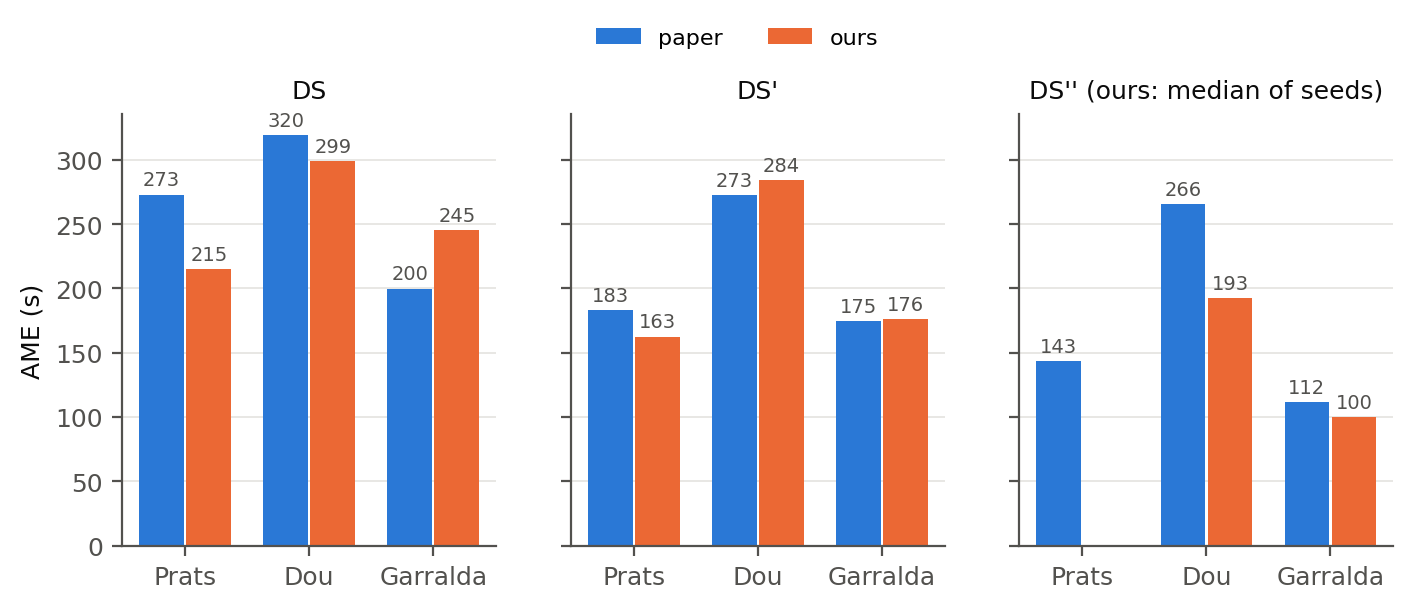
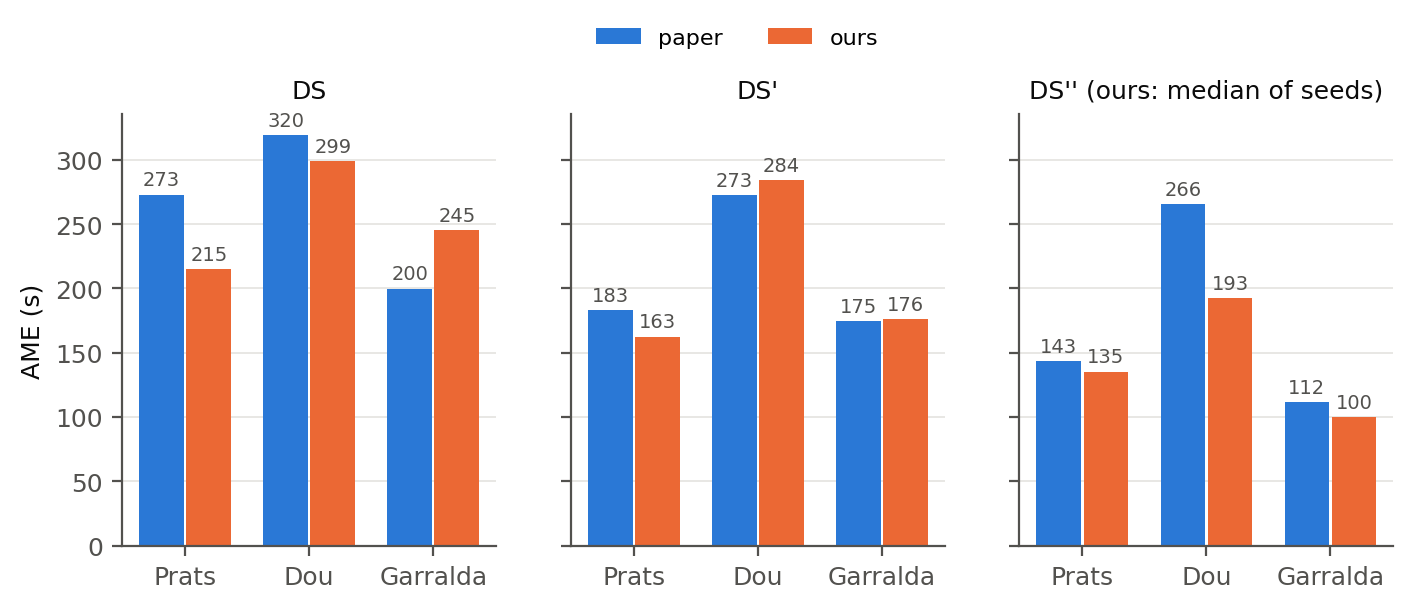
DS'' baselines and results summary

Changed region(s): [[0.7473, 0.5616, 0.8096, 0.9048]]

diff --git a/docs/results.md b/docs/results.md
@@ -1,0 +1,135 @@
+# Results
+
+All numbers come from the files under `results/`. "Paper" means FGCS 2025 (or JPDC 2024 where said);
+"ours" is this repository. Models with randomness were run with several seeds: the mean is given, and
+for DS'' also the median because a few seeds blow up (I-18). Times are in seconds.
+
+## 1. Data and featuriser
+
+- 215 of the paper's 216 runs are in the published logs (I-01): 1,251,335 tasks, 4.09 GB.
+- The PySpark featuriser and the plain Python one agree to 3.5e-10 on all 21,500 descriptor values, with
+  identical task counts and input sizes (`results/reproduced/featuriser_crosscheck.json`).
+- Against the descriptor paper (JPDC 2024, `results/reproduced/jpdc_validation/`):
+  - Table 4 (clustering quality, 12 configurations): mean absolute difference 0.032 in silhouette, 0.038
+    in F-measure, 0.030 in NMI. Degree 3 is the worst option in both. The paper's best is Cusum with
+    degree 2 (NMI 0.902); ours is Cusum with degree 1 (0.913), with degree 2 close behind (0.907).
+  - Table 5 (mean distance per workload): median absolute difference 0.14. Dataset diameter 28.19 against
+    27.55.
+  - Table 6: the Garralda descriptor beats the Prats descriptor on F-measure and NMI in all 8
+    size/algorithm cells, as in the paper.
+- Scaling of the PySpark featuriser on the Mac VM (4.09 GB, 9 jobs, median of 2 runs,
+  `results/reproduced/scaling/summary.csv`):
+
+  | Cores | Time (s) | Speed-up | MB/s |
+  |---|---|---|---|
+  | 1 | 206 | 1.00 | 19.8 |
+  | 2 | 154 | 1.34 | 26.6 |
+  | 4 | 141 | 1.47 | 29.1 |
+
+  Every run reproduces the reference descriptors. Each of the 9 jobs pays a fixed start-up cost (JVM,
+  Spark session), which limits the speed-up at this data size.
+
+## 2. Check of the model code (FGCS 2026 anchor)
+
+The authors' later offline experiment (800 runs with their own descriptors), run unchanged, gives
+exactly the published file to 3 decimals: MAE 163.045, RMSE 517.132, P95 903.808, max 4431.059,
+Kendall tau 0.694, precision@10 0.805 (`results/reproduced/fgcs2026_anchor/`). So the model code and my
+environment are not where the differences below come from.
+
+## 3. FGCS 2025
+
+AME = mean of the LOOCV and LOGOCV HME (lower is better). DS: Garralda model deterministic, baselines 3
+seeds. DS' and DS'': Garralda model 10 seeds, baselines 1 seed. `results/comparison/fgcs2025_vs_ours.csv`
+has every metric, with min, max and sd over seeds.
+
+**DS (Table 6)**
+
+| Model | LOOCV MAE paper / ours | LOGOCV MAE paper / ours | AME paper / ours |
+|---|---|---|---|
+| Prats | 136.4 / 107.1 | 293.6 / 223.5 | 273.0 / 215.3 |
+| Dou | 229.0 / 206.0 | 234.5 / 227.5 | 319.5 / 299.0 |
+| Garralda | 88.5 / 117.0 | 225.4 / 242.5 | 199.9 / 245.3 |
+
+**DS' (Table 8)**
+
+| Model | LOOCV MAE paper / ours | LOGOCV MAE paper / ours | AME paper / ours |
+|---|---|---|---|
+| Prats | 44.1 / 37.2 | 254.8 / 226.9 | 183.4 / 162.5 |
+| Dou | 159.9 / 157.6 | 241.4 / 260.5 | 272.8 / 284.1 |
+| Garralda | 52.7 / 44.5 | 219.9 / 233.0 | 174.8 / 176.1 |
+
+**DS'' (Table 10)**
+
+| Model | LOOCV MAE paper / ours | LOGOCV MAE paper / ours | AME paper / ours |
+|---|---|---|---|
+| Prats | 61.1 / 69.6 | 160.6 / 135.0 | 143.5 / 135.4 |
+| Dou | 168.8 / 94.2 | 199.8 / 188.6 | 265.7 / 192.8 |
+| Garralda (median of 10) | 59.8 / 44.7 | 108.6 / 108.4 | 111.6 / 100.1 |
+
+Garralda on DS'': the mean over the 10 seeds is dominated by the 4 seeds where LOGOCV blows up (mean
+LOGOCV MAE 154,358). The other 6 seeds and the median sit right on the paper's numbers.
+
+**Base learner ablation (Table 5, DS, 3 seeds for the random learners)**
+
+| Learner | LOOCV MAE paper / ours | LOGOCV MAE paper / ours |
+|---|---|---|
+| Random forest | 115.3 / 109.5 | 257.8 / 270.0 |
+| AdaBoost | 123.3 / 114.8 | 293.5 / 273.2 |
+| Gradient boosting | 115.6 / 106.6 | 269.6 / 264.7 |
+| NNLS (the paper's choice) | 88.5 / 117.0 | 225.4 / 242.5 |
+
+NNLS has the lowest LOGOCV error in both, but our LOOCV error is the highest of the four: one svm run
+(11,469 s predicted for 4,819 s) dominates it.
+
+**Headline claim.** The paper says its model lowers AME by 18% against Prats and 45% against Dou (31%
+overall). Recomputed from its own Table 12 that is 17.9% and 43.8%. Ours, using the median over seeds
+(needed for DS''): 34.7% against Dou (17.9% on DS, 38.2% on DS', 48.1% on DS'') but only 1.3% against
+Prats (-14.0% on DS, -8.1% on DS', +26.0% on DS''). The model clearly beats Dou, as in the paper, but
+not Prats: the Prats baseline does much better in our runs than in the paper (AME 215 against 273 on
+DS). Its LOGOCV branch in the published code can't run (I-06), so the paper's Prats numbers came from
+code we don't have.
+
+**Sensitivity (DS, AME)**
+
+- lambda (code convention, I-11): 275.7 at 0, 245.3 at 0.5 (default), 193.2 at 1.0. With lambda near 1 our
+  AME drops below the paper's 199.9.
+- Upper bound of k: 204.6 at 6, 245.3 at 18 (default), 285.6 at 30.
+- Descriptor variants: log order 275.0, no Cusum 190.0, Cusum with degree 1 182.1, Cusum with degree 3
+  293.0 (default 245.3). The simpler descriptors do better on DS.
+
+**Same code on two CPU types (I-19).** On DS the Garralda model and Dou give the same numbers on the Mac
+(ARM64) and the cloud VM (x86-64) at the precision reported here. DS' and DS'' differ in the second or
+third significant digit, and Prats on DS has AME 215.2 on ARM64 and 220.0 on x86-64.
+
+## 4. Re-runs on my own cluster
+
+69 runs of 8 HiBench workloads (`docs/cluster.md`), featurised with the same code and compared with the
+215 runs of 2022 (`results/reproduced/cluster_rerun/`).
+
+| | Garralda descriptor | Prats descriptor |
+|---|---|---|
+| Re-runs whose nearest 2022 run is the same workload | 66 / 69 (95.7%) | 63 / 69 (91.3%) |
+| ... among the 3 nearest | 97.1% | 92.8% |
+| Same check inside the 2022 runs (leave-one-out, same 8 workloads) | 100% | 83.3% |
+
+The Garralda descriptor misses 2 bayes runs (nearest: gbt and pca) and 1 sleep run (nearest: scan).
+The Prats descriptor mistakes wordcount for pagerank 6 times.
+
+Distances in the scaled Garralda space (medians): a re-run is 1.38 from its 2022 twin (same workload,
+size and setting), about the same as two 2022 runs of one workload under different settings (1.42), and
+far from other workloads (3.42). Two repetitions of the same job on the VM are 0.99 apart. The features
+that move most between the platforms are timing ones (result serialisation, run time, fetch wait,
+deserialisation), which also vary most between repetitions.
+
+Run times on the VM are a median 0.37 of the 2022 times and keep their order (Spearman 0.72 over 45
+cells). Feeding the re-runs to the model:
+
+| History used for the prediction | MAE (s) | MAPE | Neighbours from the same workload |
+|---|---|---|---|
+| 2022 runs | 19.8 | 271% | 63% |
+| 2022 runs + VM runs of the other workloads | 14.7 | 194% | 63% |
+| VM runs of the other workloads only | 6.6 | 59% | - |
+
+The descriptor transfers across platforms, but the run times don't: the model needs some runs from the
+new platform before its predictions are useful there, which is the incremental setting the paper argues
+for.

diff --git a/WORKLOG.md b/WORKLOG.md
@@ -89,3 +89,8 @@ with 2 vCPUs that I used to develop the pipeline and for the long baseline runs.
   predictions are unchanged, checked unit by unit. Restarted the DS'' baselines and the extra DS seeds.
 - 13:35 Comparison script (`src/analysis/compare_with_paper.py`) and figures (`src/analysis/figures.py`).
 - 13:50 Mac went offline in the middle of the extra DS baseline seeds.
+- 14:00 to 14:20 Extra DS baseline seeds on the Mac: Dou AME 298.75 and 303.18, Prats 219.51 and 211.14
+  (seed 0: 295.03 and 215.20).
+- 14:45 Prats on DS'' finished on the cloud VM: AME 135.35 (paper 143.45). Final comparison tables and
+  figures, summary in `docs/results.md`. Against the paper's headline: the model beats Dou by 35% on
+  average (paper 45%) but is only 1% better than Prats (paper 18%).
